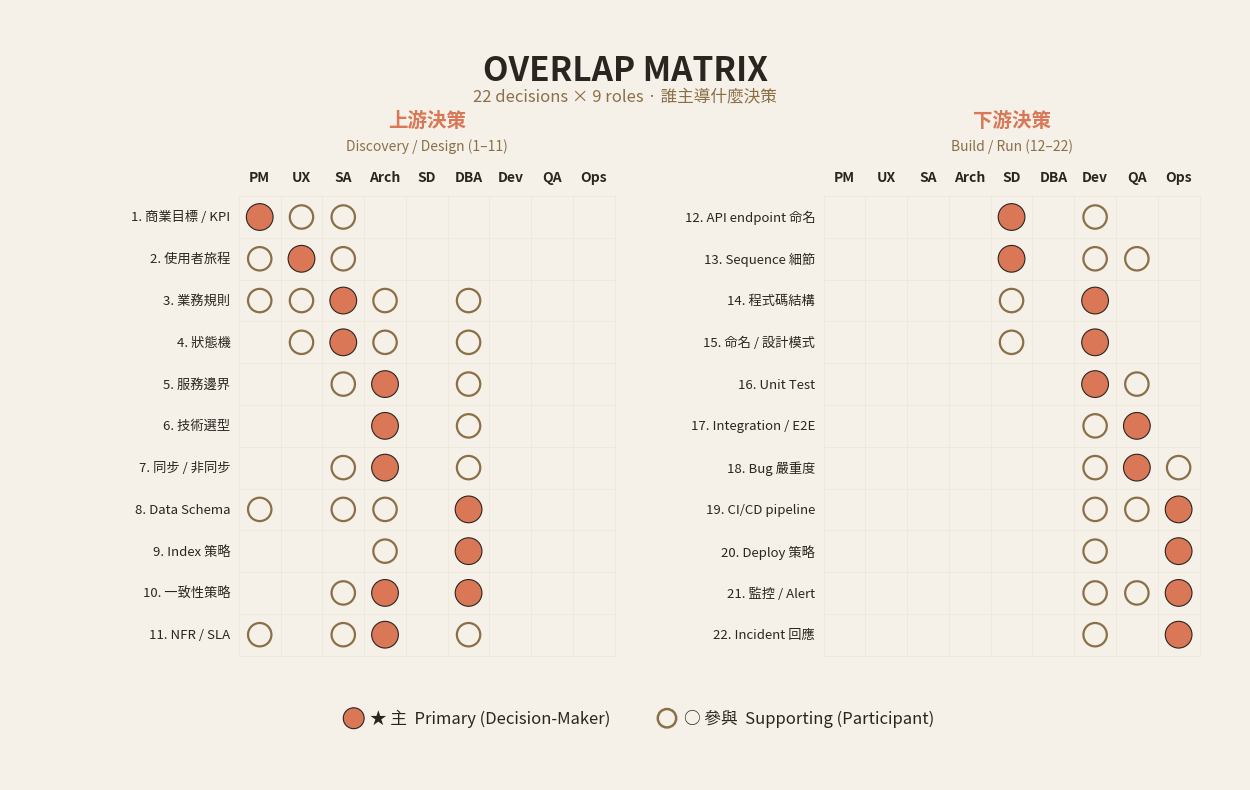
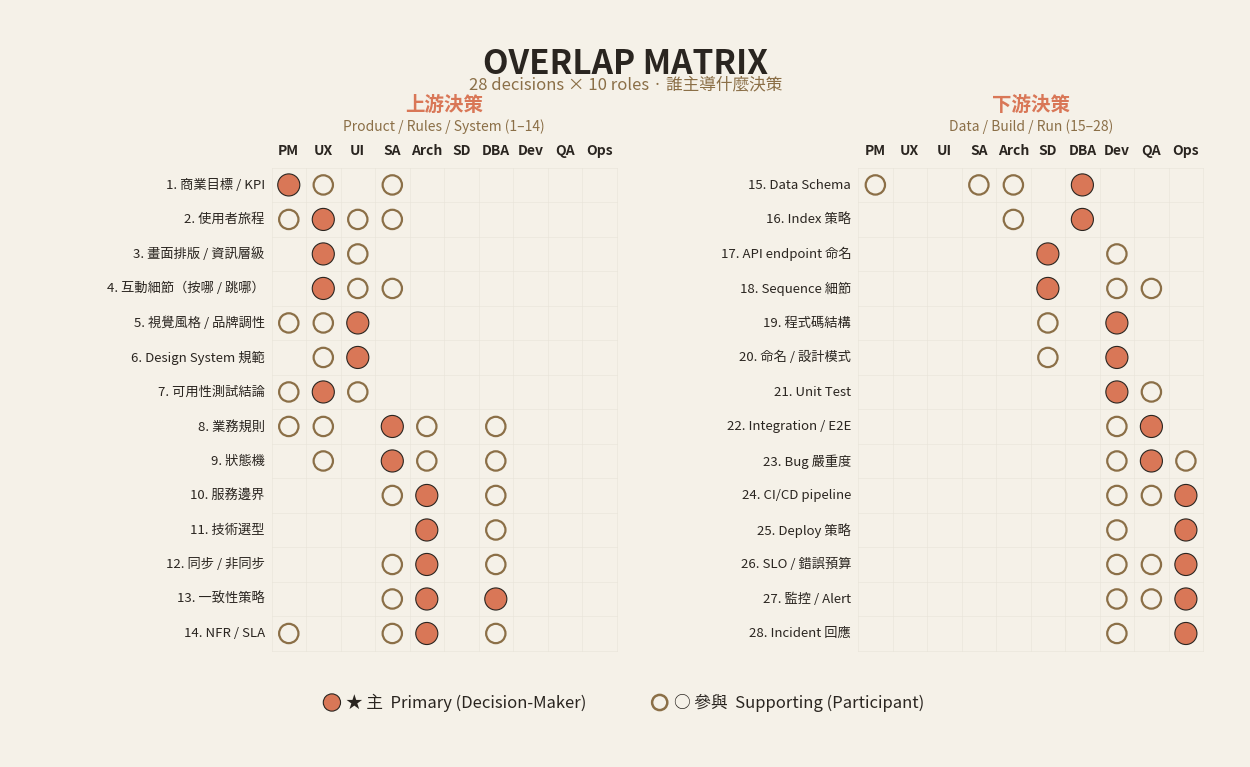
feat(dev-journey): add UI column and SLO decision to overlap matrix
The matrix covered 22 decisions across 9 roles and had no UI column at
all, so the five decisions UI actually owns had nowhere to live. It also
gave DevOps no say in any reliability target — NFR / SLA sat in the
upstream table, which DevOps was not a column of.

- Add the UI column, sourced from 03-ux-ui/02_boundary.md §誰主導什麼:
  視覺風格 / 品牌調性 and Design System 規範 are UI-led; 畫面排版,
  互動細節 and 可用性測試結論 are UX-led with UI supporting
- Add SLO / 錯誤預算 (DevOps-led) per Ch.10 口訣 2, and note the split:
  Architect owns the design target, DevOps owns the runtime threshold
- Regroup the two wide tables into four layered ones (產品與體驗 /
  規則與系統 / 實作與交付 / 維運與可靠性) so no slide overflows

Matrix is now 28 decisions x 10 roles. Regenerate the PNG from the same
canonical data and widen the legend offsets, which collided once the
extra role column made the figure wider.

Claude-Session: https://claude.ai/code/session_012kwHerfZ1BSD5p1vmw9uDw

diff --git a/Handouts/software_develop_journey/ppt/assets/diagrams/_generate_overlap_matrix.py b/Handouts/software_develop_journey/ppt/assets/diagrams/_generate_overlap_matrix.py
@@ -7,7 +7,7 @@ This script renders the matrix from the canonical data defined in
 `software_develop_journey/ppt/11-collaboration/02_overlap_matrix.md`
 with 100% accuracy.
 
-Layout: two side-by-side blocks (上游 11 decisions × 9 roles | 下游 11 decisions × 9 roles)
+Layout: two side-by-side blocks (上游 14 decisions × 10 roles | 下游 14 decisions × 10 roles)
 so the data is comprehensive AND the image fits 16:9 landscape.
 
 Run: python _generate_overlap_matrix.py
@@ -44,38 +44,44 @@ for candidate in (
 else:
     matplotlib.rcParams["font.family"] = "sans-serif"
 
-ROLES = ["PM", "UX", "SA", "Arch", "SD", "DBA", "Dev", "QA", "Ops"]
+ROLES = ["PM", "UX", "UI", "SA", "Arch", "SD", "DBA", "Dev", "QA", "Ops"]
 
 # Cell values: 2 = ★ 主 (primary), 1 = 參與 (supporting), 0 = – (none)
 # Order of columns must match ROLES.
 UPSTREAM = [
-    # label,                              PM UX SA AR SD DB DV QA OP
-    ("1. 商業目標 / KPI",                 [2, 1, 1, 0, 0, 0, 0, 0, 0]),
-    ("2. 使用者旅程",                     [1, 2, 1, 0, 0, 0, 0, 0, 0]),
-    ("3. 業務規則",                       [1, 1, 2, 1, 0, 1, 0, 0, 0]),
-    ("4. 狀態機",                         [0, 1, 2, 1, 0, 1, 0, 0, 0]),
-    ("5. 服務邊界",                       [0, 0, 1, 2, 0, 1, 0, 0, 0]),
-    ("6. 技術選型",                       [0, 0, 0, 2, 0, 1, 0, 0, 0]),
-    ("7. 同步 / 非同步",                  [0, 0, 1, 2, 0, 1, 0, 0, 0]),
-    ("8. Data Schema",                     [1, 0, 1, 1, 0, 2, 0, 0, 0]),
-    ("9. Index 策略",                     [0, 0, 0, 1, 0, 2, 0, 0, 0]),
-    ("10. 一致性策略",                    [0, 0, 1, 2, 0, 2, 0, 0, 0]),
-    ("11. NFR / SLA",                      [1, 0, 1, 2, 0, 1, 0, 0, 0]),
+    # label,                              PM UX UI SA AR SD DB DV QA OP
+    ("1. 商業目標 / KPI",                 [2, 1, 0, 1, 0, 0, 0, 0, 0, 0]),
+    ("2. 使用者旅程",                     [1, 2, 1, 1, 0, 0, 0, 0, 0, 0]),
+    ("3. 畫面排版 / 資訊層級",            [0, 2, 1, 0, 0, 0, 0, 0, 0, 0]),
+    ("4. 互動細節（按哪 / 跳哪）",        [0, 2, 1, 1, 0, 0, 0, 0, 0, 0]),
+    ("5. 視覺風格 / 品牌調性",            [1, 1, 2, 0, 0, 0, 0, 0, 0, 0]),
+    ("6. Design System 規範",              [0, 1, 2, 0, 0, 0, 0, 0, 0, 0]),
+    ("7. 可用性測試結論",                 [1, 2, 1, 0, 0, 0, 0, 0, 0, 0]),
+    ("8. 業務規則",                       [1, 1, 0, 2, 1, 0, 1, 0, 0, 0]),
+    ("9. 狀態機",                         [0, 1, 0, 2, 1, 0, 1, 0, 0, 0]),
+    ("10. 服務邊界",                      [0, 0, 0, 1, 2, 0, 1, 0, 0, 0]),
+    ("11. 技術選型",                      [0, 0, 0, 0, 2, 0, 1, 0, 0, 0]),
+    ("12. 同步 / 非同步",                 [0, 0, 0, 1, 2, 0, 1, 0, 0, 0]),
+    ("13. 一致性策略",                    [0, 0, 0, 1, 2, 0, 2, 0, 0, 0]),
+    ("14. NFR / SLA",                      [1, 0, 0, 1, 2, 0, 1, 0, 0, 0]),
 ]
 
 DOWNSTREAM = [
-    # label,                              PM UX SA AR SD DB DV QA OP
-    ("12. API endpoint 命名",             [0, 0, 0, 0, 2, 0, 1, 0, 0]),
-    ("13. Sequence 細節",                 [0, 0, 0, 0, 2, 0, 1, 1, 0]),
-    ("14. 程式碼結構",                    [0, 0, 0, 0, 1, 0, 2, 0, 0]),
-    ("15. 命名 / 設計模式",               [0, 0, 0, 0, 1, 0, 2, 0, 0]),
-    ("16. Unit Test",                      [0, 0, 0, 0, 0, 0, 2, 1, 0]),
-    ("17. Integration / E2E",              [0, 0, 0, 0, 0, 0, 1, 2, 0]),
-    ("18. Bug 嚴重度",                     [0, 0, 0, 0, 0, 0, 1, 2, 1]),
-    ("19. CI/CD pipeline",                 [0, 0, 0, 0, 0, 0, 1, 1, 2]),
-    ("20. Deploy 策略",                    [0, 0, 0, 0, 0, 0, 1, 0, 2]),
-    ("21. 監控 / Alert",                   [0, 0, 0, 0, 0, 0, 1, 1, 2]),
-    ("22. Incident 回應",                  [0, 0, 0, 0, 0, 0, 1, 0, 2]),
+    # label,                              PM UX UI SA AR SD DB DV QA OP
+    ("15. Data Schema",                    [1, 0, 0, 1, 1, 0, 2, 0, 0, 0]),
+    ("16. Index 策略",                    [0, 0, 0, 0, 1, 0, 2, 0, 0, 0]),
+    ("17. API endpoint 命名",             [0, 0, 0, 0, 0, 2, 0, 1, 0, 0]),
+    ("18. Sequence 細節",                 [0, 0, 0, 0, 0, 2, 0, 1, 1, 0]),
+    ("19. 程式碼結構",                    [0, 0, 0, 0, 0, 1, 0, 2, 0, 0]),
+    ("20. 命名 / 設計模式",               [0, 0, 0, 0, 0, 1, 0, 2, 0, 0]),
+    ("21. Unit Test",                      [0, 0, 0, 0, 0, 0, 0, 2, 1, 0]),
+    ("22. Integration / E2E",              [0, 0, 0, 0, 0, 0, 0, 1, 2, 0]),
+    ("23. Bug 嚴重度",                     [0, 0, 0, 0, 0, 0, 0, 1, 2, 1]),
+    ("24. CI/CD pipeline",                 [0, 0, 0, 0, 0, 0, 0, 1, 1, 2]),
+    ("25. Deploy 策略",                    [0, 0, 0, 0, 0, 0, 0, 1, 0, 2]),
+    ("26. SLO / 錯誤預算",                 [0, 0, 0, 0, 0, 0, 0, 1, 1, 2]),
+    ("27. 監控 / Alert",                   [0, 0, 0, 0, 0, 0, 0, 1, 1, 2]),
+    ("28. Incident 回應",                  [0, 0, 0, 0, 0, 0, 0, 1, 0, 2]),
 ]
 
 
@@ -191,14 +197,14 @@ def main() -> None:
     # Layout (in axis units):
     #   left labels    | upstream block | gap | right labels   | downstream block
     #   width  ~4.5    |   9            | 1   |   ~4.5         |   9
-    LEFT_PAD = 5.0     # space for upstream row labels (left margin)
-    BLOCK_W = n_cols   # 9
-    MID_PAD = 5.0      # space for downstream row labels between the two blocks
+    LEFT_PAD = 7.0     # space for upstream row labels (left margin)
+    BLOCK_W = n_cols   # 10
+    MID_PAD = 7.0      # space for downstream row labels between the two blocks
     upstream_x = LEFT_PAD
     downstream_x = LEFT_PAD + BLOCK_W + MID_PAD
     total_w = downstream_x + BLOCK_W + 0.5  # tiny right margin
 
-    BLOCK_H = 11
+    BLOCK_H = max(len(UPSTREAM), len(DOWNSTREAM))
     y_top = BLOCK_H  # top of block in axis units
     total_h_top = y_top + 4   # extra room for title + headers
     total_h_bottom = -2.5     # legend area
@@ -217,7 +223,7 @@ def main() -> None:
     ax.text(
         total_w / 2,
         y_top + 2.4,
-        "22 decisions × 9 roles · 誰主導什麼決策",
+        "28 decisions × 10 roles · 誰主導什麼決策",
         ha="center",
         va="center",
         fontsize=12,
@@ -231,7 +237,7 @@ def main() -> None:
         x_offset=upstream_x,
         y_top=y_top,
         title="上游決策",
-        subtitle="Discovery / Design (1–11)",
+        subtitle="Product / Rules / System (1–14)",
     )
     draw_block(
         ax,
@@ -239,15 +245,17 @@ def main() -> None:
         x_offset=downstream_x,
         y_top=y_top,
         title="下游決策",
-        subtitle="Build / Run (12–22)",
+        subtitle="Data / Build / Run (15–28)",
     )
 
     # Legend at the bottom, two items spaced apart
     legend_y = -1.5
-    # Primary swatch + label (left of center)
+    # Primary swatch + label (left of center).
+    # Offsets are in axis units; the label text is ~7 units wide at fontsize 12,
+    # so keep >= 8 units between the two swatches or the labels collide.
     ax.add_patch(
         Circle(
-            (total_w / 2 - 6.5, legend_y),
+            (total_w / 2 - 8.5, legend_y),
             0.25,
             facecolor=COLOR_PRIMARY,
             edgecolor=COLOR_TEXT,
@@ -255,7 +263,7 @@ def main() -> None:
         )
     )
     ax.text(
-        total_w / 2 - 6.1,
+        total_w / 2 - 8.1,
         legend_y,
         "★ 主  Primary (Decision-Maker)",
         ha="left",

diff --git a/Handouts/software_develop_journey/ppt/11-collaboration/02_overlap_matrix.md b/Handouts/software_develop_journey/ppt/11-collaboration/02_overlap_matrix.md
@@ -46,12 +46,32 @@ API 名稱 SD / Dev / Architect 都會講
 
 <!-- _class: compact -->
 
-## MATRIX · 11 個決策 × 5 個角色
+## MATRIX · ① 產品與體驗層
+
+| 決策 | PM | UX | UI | SA |
+|---|---|---|---|---|
+| 商業目標 / KPI | ★ 主 | 參與 | – | 參與 |
+| 使用者旅程 | 參與 | ★ 主 | 參與 | 參與 |
+| 畫面排版 / 資訊層級 | – | ★ 主 | 參與 | – |
+| 互動細節（按哪 / 跳哪） | – | ★ 主 | 參與 | 參與 |
+| 視覺風格 / 品牌調性 | 參與 | 參與 | ★ 主 | – |
+| Design System 規範 | – | 參與 | ★ 主 | – |
+| 可用性測試結論 | 參與 | ★ 主 | 參與 | – |
+
+<span class="muted">**UX vs UI 的分界**：動線與骨架歸 UX，視覺與元件歸 UI。**兩個都不主導業務規則**——那是 SA 的事。</span>
+
+> Source: _source/braindump.md · §UX vs UI
+
+
+---
+
+
+<!-- _class: compact -->
+
+## MATRIX · ② 規則與系統層
 
 | 決策 | PM | UX | SA | Arch | DBA |
 |---|---|---|---|---|---|
-| 商業目標 / KPI | ★ 主 | 參與 | 參與 | – | – |
-| 使用者旅程 | 參與 | ★ 主 | 參與 | – | – |
 | 業務規則 | 參與 | 參與 | ★ 主 | 參與 | 參與 |
 | 狀態機 | – | 參與 | ★ 主 | 參與 | 參與 |
 | 服務邊界 | – | – | 參與 | ★ 主 | 參與 |
@@ -62,6 +82,8 @@ API 名稱 SD / Dev / Architect 都會講
 | 一致性策略 | – | – | 參與 | ★ 主 | ★ 主 |
 | NFR / SLA | 參與 | – | 參與 | ★ 主 | 參與 |
 
+<span class="muted">**NFR / SLA 由 Architect 定設計目標**；上線後的 **SLO / 錯誤預算由 DevOps 定運行門檻**（見表 ③）——同一件事的兩面。</span>
+
 > Source: _source/braindump.md · §SA vs Architect
 
 
@@ -70,7 +92,7 @@ API 名稱 SD / Dev / Architect 都會講
 
 <!-- _class: compact -->
 
-## MATRIX · 下游 4 個角色
+## MATRIX · ③ 實作與交付層
 
 | 決策 | SD | Dev | QA | DevOps |
 |---|---|---|---|---|
@@ -81,12 +103,30 @@ API 名稱 SD / Dev / Architect 都會講
 | Unit Test | – | ★ 主 | 參與 | – |
 | Integration / E2E | – | 參與 | ★ 主 | – |
 | Bug 嚴重度 | – | 參與 | ★ 主 | 參與 |
+
+<span class="muted">**Dev vs QA 的分界**：Dev 主導 unit（單一單元對），QA 主導 integration / E2E（整棟樓不會塌）。</span>
+
+> Source: _source/braindump.md · §SDLC 全流程
+
+
+---
+
+
+<!-- _class: compact -->
+
+## MATRIX · ④ 維運與可靠性層
+
+| 決策 | SD | Dev | QA | DevOps |
+|---|---|---|---|---|
 | CI/CD pipeline | – | 參與 | 參與 | ★ 主 |
 | Deploy 策略 | – | 參與 | – | ★ 主 |
+| SLO / 錯誤預算 | – | 參與 | 參與 | ★ 主 |
 | 監控 / Alert | – | 參與 | 參與 | ★ 主 |
 | Incident 回應 | – | 參與 | – | ★ 主 |
 
-> Source: _source/braindump.md · §SDLC 全流程
+<span class="muted">**這一層 DevOps 全部是 ★ 主**——但每一格 Dev 都「參與」。維運不是丟給 DevOps 就沒事，**寫 code 的人要看得懂自己的 alert**。</span>
+
+> Source: _source/braindump.md · §DevOps / SRE 視角
 
 
 ---

diff --git a/Handouts/software_develop_journey/ppt/assets/diagrams/prompts/11-collaboration.md b/Handouts/software_develop_journey/ppt/assets/diagrams/prompts/11-collaboration.md
@@ -83,10 +83,11 @@
 - **為什麼不用 AI 生圖**：gpt-image-2 / DALL-E 無法準確渲染**特定的網格儲存格位置**——每次重生都會把橘色 / 棕色圓圈擺到隨機位置，資料一定錯。Python + matplotlib 直接從 canonical data 渲染，**100% 準確**且可重現。
 
 - **資料對應**：
-  - 上游 11 個決策（rows 1–11）來自 `11-collaboration/02_overlap_matrix.md` 第一張表（PM/UX/SA/Arch/DBA）
-  - 下游 11 個決策（rows 12–22）來自第二張表（SD/Dev/QA/DevOps）
-  - 兩塊 side-by-side 排列以符合 16:9 + 涵蓋全部 22 個決策
-  - 9 個角色欄位：PM, UX, SA, Arch, SD, DBA, Dev, QA, Ops
+  - 上游 14 個決策（rows 1–14）來自 `11-collaboration/02_overlap_matrix.md` 表 ①（產品與體驗層）+ 表 ②（規則與系統層，扣掉 Data Schema / Index）
+  - 下游 14 個決策（rows 15–28）來自表 ②（Data Schema / Index）+ 表 ③（實作與交付層）+ 表 ④（維運與可靠性層）
+  - 兩塊 side-by-side 排列以符合 16:9 + 涵蓋全部 28 個決策
+  - 10 個角色欄位：PM, UX, UI, SA, Arch, SD, DBA, Dev, QA, Ops
+  - **改資料時務必三處一起改**：slide 的四張表、`_generate_overlap_matrix.py` 的 `UPSTREAM` / `DOWNSTREAM`、`Handouts/ROLE_UNCERTAINTY_MATRIX.md` 的表 C，是同一份資料的三個 rendering
 
 - **三態圖示**：
   - **橘色實心圓 ●**：★ 主 Primary（拍板人）
